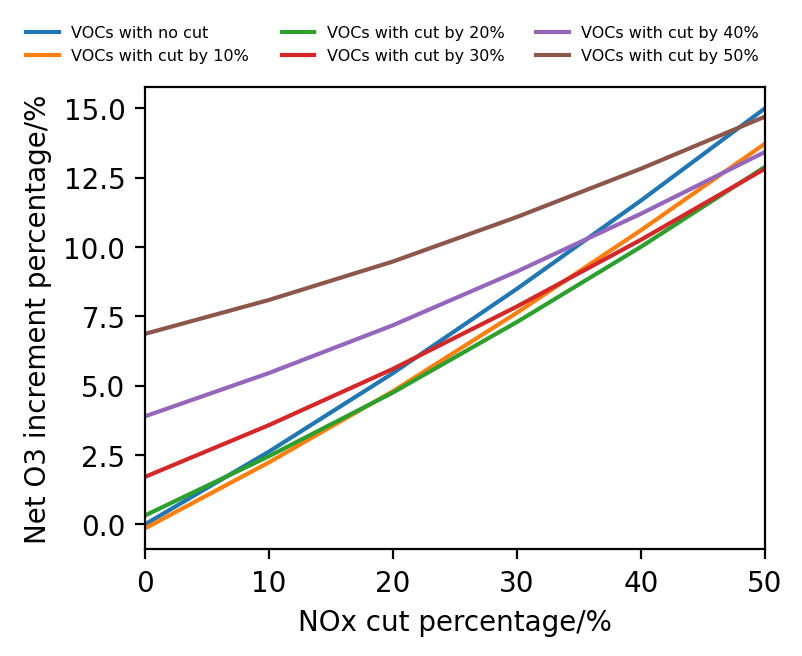
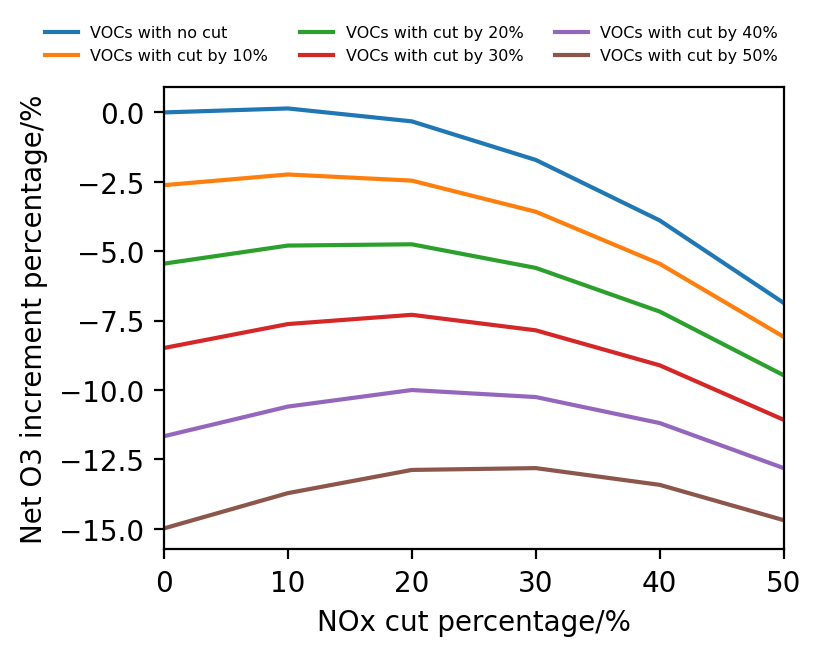
fix figure error

diff --git a/main.py b/main.py
@@ -22,7 +22,7 @@ class GUI():
     # 设置窗口
     def set_init_window(self):
         self.main.title("快速评估模型v0.2")
-        w, h = 600, 800
+        w, h = 560, 880
         sw = self.main.winfo_screenwidth()
         sh = self.main.winfo_screenheight()
         x = (sw-w) // 2
@@ -131,7 +131,6 @@ class GUI():
             EKMA_MAT[index] = case_mat[i, j]
 
         self.mat = EKMA_MAT
-        print(self.mat)
 
     def compute(self):
         self.load_mat()
@@ -207,9 +206,8 @@ class GUI():
 
         
         for index, element in np.ndenumerate(data):
-            res = interpolator(np.array([1-nox_cut[index[0]],1-voc_cut[index[1]]]))
-            data[index] = (self.mat[4,4]-res)/self.mat[4,4]*100
-        print(data)
+            res = interpolator(np.array([1-nox_cut[index[1]],1-voc_cut[index[0]]]))
+            data[index] = (res-self.mat[4,4])/self.mat[4,4]*100
         
         fig = plt.figure(figsize=(4, 3))
         ax = fig.add_subplot(111)
@@ -220,8 +218,9 @@ class GUI():
         ax.plot(nox_cut*100,data[4,:],label="VOCs with cut by 40%")
         ax.plot(nox_cut*100,data[5,:],label="VOCs with cut by 50%")
         ax.set_xlim(0,50)
+        # ax.invert_yaxis()
         ax.set_xlabel("NOx cut percentage/%")
-        ax.set_ylabel("Net O3 increment percentage/%")
+        ax.set_ylabel("O3 increment percentage/%")
 
         ax.legend(frameon=False,ncol=3,loc="lower center",bbox_to_anchor=(0.4,1.02),fontsize="xx-small")
         plt.savefig(".co-emitted.png", dpi=200, bbox_inches='tight')
@@ -236,18 +235,6 @@ class GUI():
         imgLabel.img = photo
         imgLabel.grid(row=8, column=1, rowspan=2)  # 自动对齐
         return
-        X, Y = np.meshgrid(self.VOC,self.NOX,)
-        ct = ax.contour(X,Y, self.mat)
-        # plt.colorbar(ct)
-        ax.set_xlabel("VOC")
-        ax.set_ylabel("NOx")
-
-        ax.scatter(voc,nox,marker="o", edgecolors="red", c=None)
-
-        ax.clabel(ct, fontsize=10, colors='k', fmt="%.0f")
-        
-        
-
 
 
     # 日志动态打印

diff --git a/README.md b/README.md
@@ -1,1 +1,2 @@
 # ekma-inter-gui
+https://github.com/Gongkangjia/ekma-interp-gui
